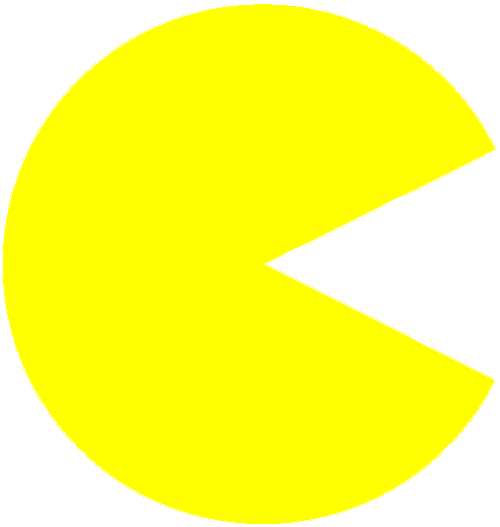
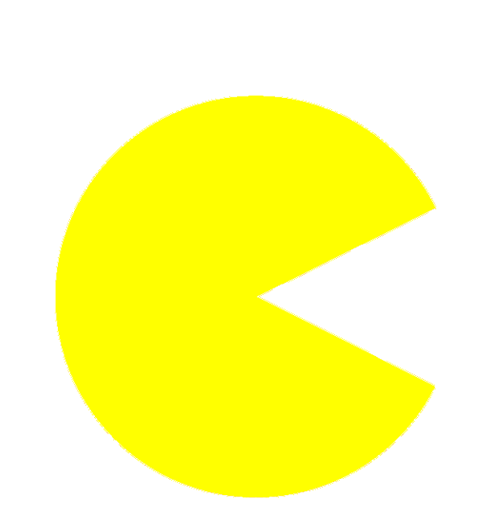
Corrige sprite do pacman e altera argumento do método updateScore

diff --git a/src/view/View.java b/src/view/View.java
@@ -273,11 +273,11 @@ public class View{
     //Score an stage box methods
     //-------------------------------------
     
-    public void updateScore(Integer score){
-        scoreText.setText("Score\n" + score.toString());
+    public void updateScore(int score){
+        scoreText.setText("Score\n" + Integer.toString(score));
     }
     
     public void updateStage(Integer stage){
-        stageText.setText("Stage\n" + stage.toString());
+        stageText.setText("Stage\n" + Integer.toString(stage));
     }
 }
